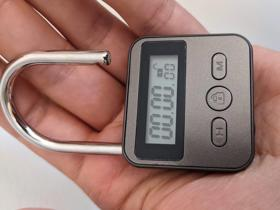
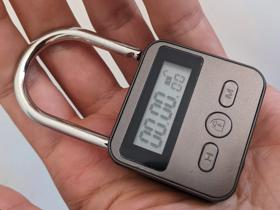
Improve chocolate images

diff --git a/preprocessing/gphotos/responsible-chocolate-eating.py b/preprocessing/gphotos/responsible-chocolate-eating.py
@@ -5,8 +5,11 @@ path = 'posts/responsible-chocolate-eating/'
 google_photo(f'{path}box', 'tq7MQTaq5WDvdFKIMlMofNRQmVM6HYP5uBLo1p1GujlrbrLYLdqcBxGyVohsb88gRRBxitVas-3SOImaEw',
     x=0, y=1150, width=2980, angle=0)
 
+google_photo(f'{path}open', 'IcbFOvxhXdMVrzF1nI0cP_m6OOvAMkPbofRRHt9IO34esOhppF3FJzEVTxXVW7hrRpcTXcfkquMru4pu0g',
+    x=1000, y=1020, width=2900, angle=75)
+
 google_photo(f'{path}closed', '2P_TK5milBaDaQK65j-aD4sldxosMVHdp2VR8D08WWysuXfoFdXyRMdKR3BWcYBzeK44FgVkVONF-gQK9w',
     x=0, y=200, width=3000, angle=0)
 
[1 lines of base64/hex data omitted]
-    x=0, y=400, width=3400, angle=90)
+google_photo(f'{path}usb', 'ppaO4cYrSrX1sNUxoyM1gjXQ02JIPHhH0jzSHEX_s24ui5T4lWIIeKQbeBDFPJz4DXNB5BlERhs2cQs4IA',
+    x=1650, y=2150, width=1500, angle=150)

diff --git a/content/posts/responsible-chocolate-eating/index.md b/content/posts/responsible-chocolate-eating/index.md
@@ -2,7 +2,7 @@
 title: 'Responsible Chocolate Eating'
 date: 2023-01-16
 author: 'Steven Baldasty'
-summary: 'How to limit daily junk food intake with a time release lock'
+summary: 'How to limit daily junkfood intake with a time release lock.'
 ---
 
 Commitment devices are tricks we can use to limit what choices we will have later. They can help us reach our goals when we think our willpower may fail. I wanted to share about a particular commitment device I use, because it works well for me and many people haven't heard of it.
@@ -12,9 +12,6 @@ I have no self restraint around eating chocolate. I usually eat any chocolate av
 {{< gallery >}}
   {{< image src="box.jpg" alt="Junk food" >}}
     Toolbox overflowing with Ferrero Rocher, Sanders Dark Chocolate Sea Salt Caramels, and Ghirardelli 72% Cacao Dark Chocolate Premium Baking Chips
-  {{< /image >}}
-  {{< image src="closed.jpg" alt="Closed time release lock" >}}
-    The lock charges over USB, but retains its charge well. It has a straightforward UI, remembers its last timer setting, and the beeping sounds it makes when opening and closing can be muted.
   {{< /image >}}
   {{< image src="open.jpg" alt="Time release lock" >}}
     The lock charges over USB, but retains its charge well. It has a straightforward UI, remembers its last timer setting, and the beeping sounds it makes when opening and closing can be muted.
@@ -30,5 +27,14 @@ You will need two things to get started.
 Put all your chocolate in the box. Every morning, enjoy picking from the box a reasonable amount of your most delicious chocolate to last the day, whatever "reasonable" looks like for you. Then lock the box. This is your commitment. I keep the timer set for twenty hours for some wiggle room, and that way it opens reliably while I am still sleeping.
 
 If you are like me, the chocolate you took from the box will disappear well before lunch. You may notice that cravings happen in the afternoon, if you are home. You may feel upset that your chocolate is not accessible to you. Try to take some deep breaths. Remember that your past self was just watching out for you, and did this to help you. Remember that in the morning you will get to pick out more chocolate to eat, and then you help your future self of that day in the exact same way your past self is helping you!
+
+{{< gallery >}}
+  {{< image src="closed.jpg" alt="Closed time release lock" >}}
+    The lock charges over USB, but retains its charge well. It has a straightforward UI, remembers its last timer setting, and the beeping sounds it makes when opening and closing can be muted.
+  {{< /image >}}
+  {{< image src="usb.jpg" alt="USB-B port" >}}
+    The lock charges over USB, but retains its charge well. It has a straightforward UI, remembers its last timer setting, and the beeping sounds it makes when opening and closing can be muted.
+  {{< /image >}}
+{{< /gallery >}}
 
 At some point though you will need to restock your box. Restocking is a disruption to your routine, and a period of vulnerability: whatever chocolate you buy will be accessible to you until your lock pops open. You may consider timing your shopping trip in such a way as to minimize your access to the chocolate. I personally just accept the possibility that I may eat too much on restocking days. Another reason I buy in bulk, besides cost savings, is that I need to restock far less often.

diff --git a/README.md b/README.md
@@ -1,17 +1,28 @@
-## Backlog
+## Expansion
 
-- Revisit chocolate post images
-- Rework chocolate post
-- Rework museum post
 - Write homepage
-- Post index iterate over children not pages
-- Figure out why page widths differ slightly
 - Write discussion for post index
-- Rip out ananke theme remnants
-- Learn about px versus pt, etc.
-- Make post dates look good when shrinking list
 - Argument map layout
+- Extended bio
+
+## Editing
+
+- Rework museum pictures
+- Rework chocolate post
+
+## Improvements
+
+- Make post dates look good when shrinking list
+- Figure out why page widths differ slightly
+- Wrap sidebar before wrapping post images
+- Site logo / favicon
+
+## Backend
+
+- Learn about px versus pt, etc.
 - Home should be index.md not _index.md
+- Rip out ananke theme remnants
+- Post index iterate over children not pages
 
 ## Done
 
@@ -32,3 +43,4 @@
 - Add styling for page titles
 - Reconsider image sizes: 286 width to match sidebar?
 - Try using pipelines for image processing
+- Revisit chocolate post images
